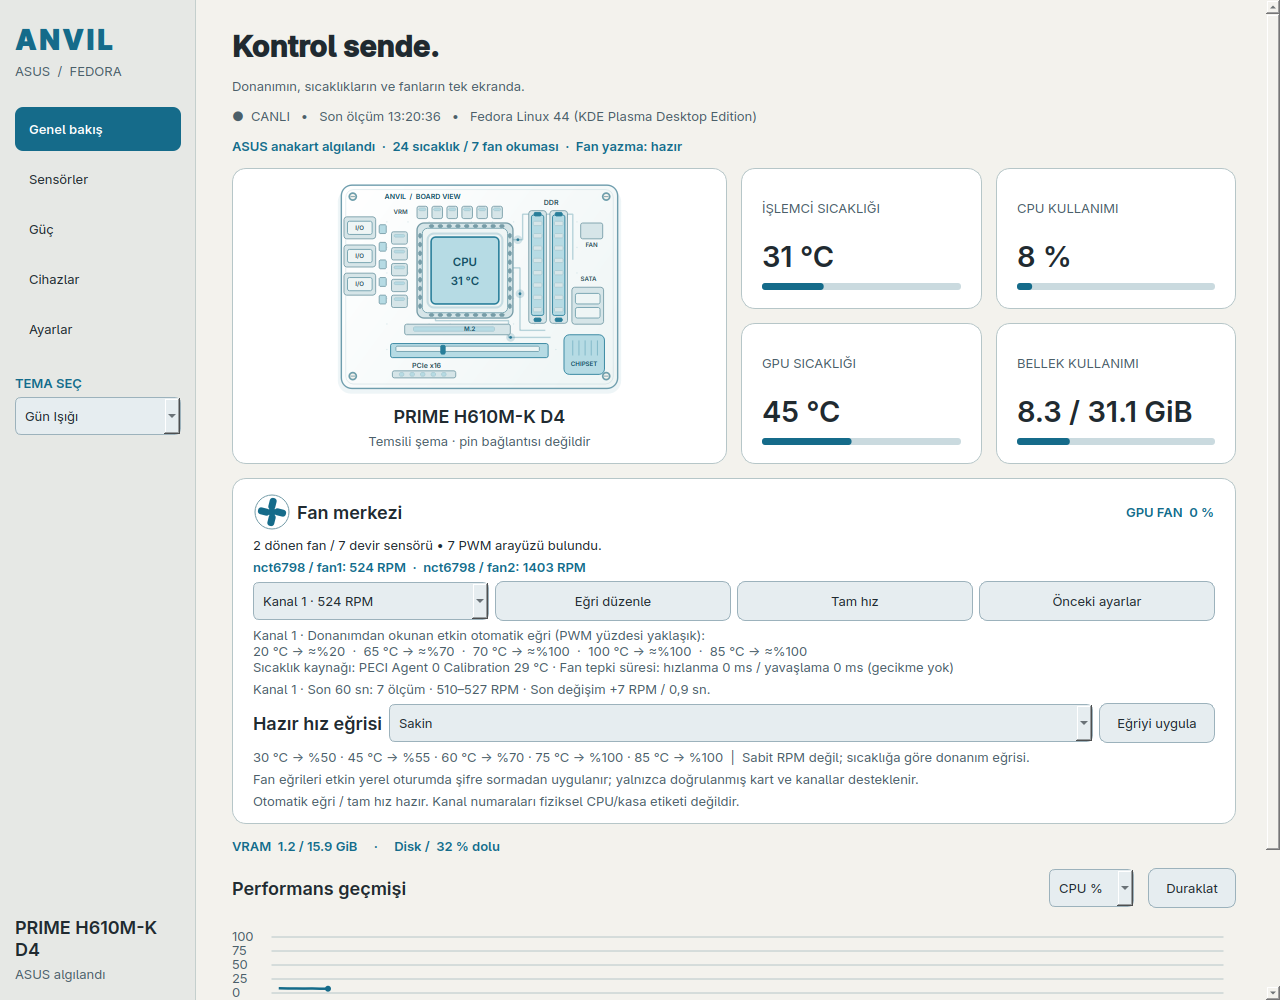
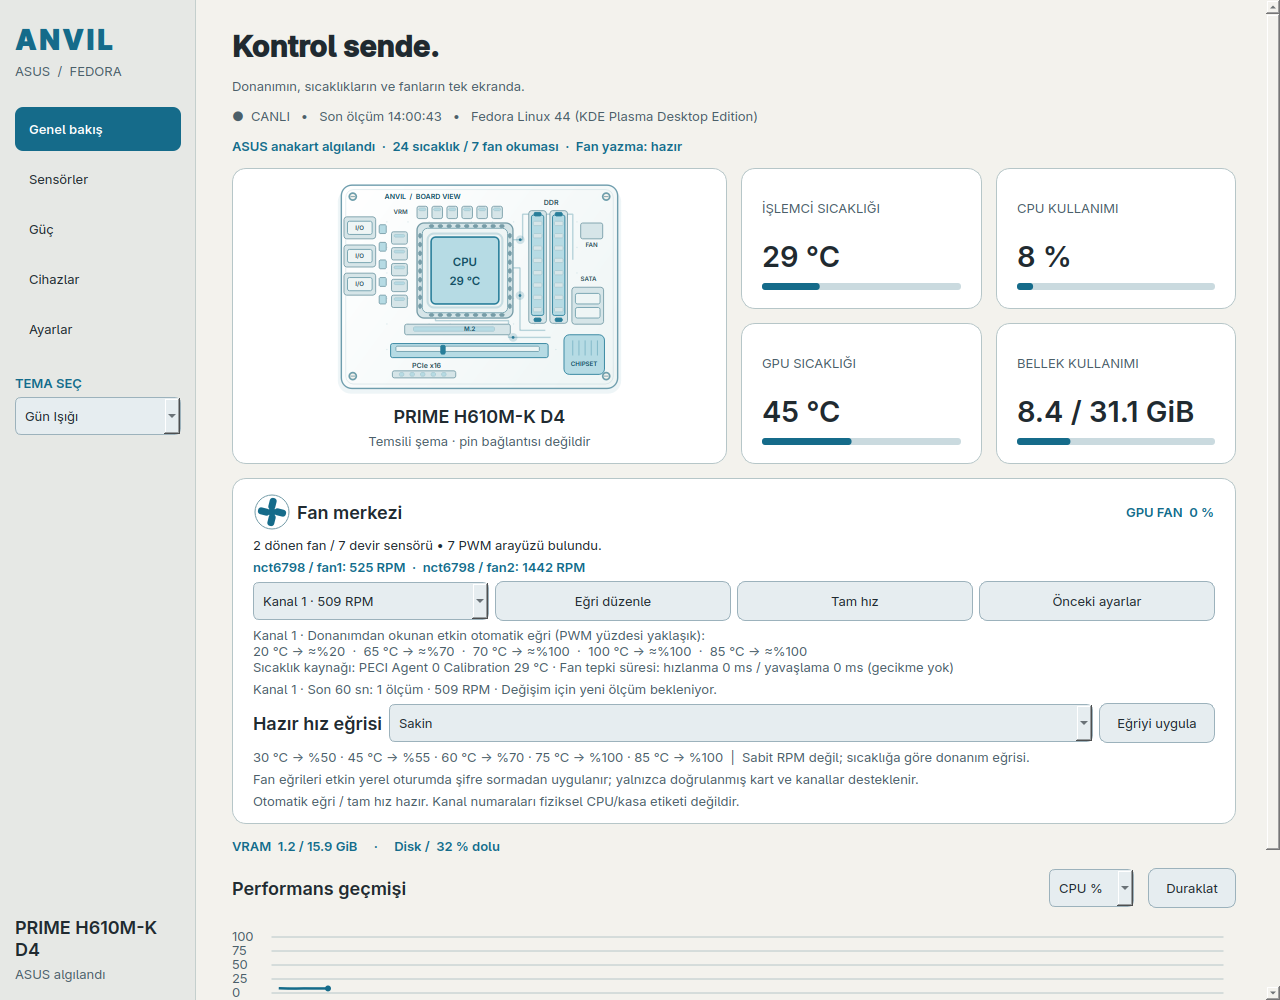
Mark paused and failed fan readings as stale

diff --git a/anvil/app.py b/anvil/app.py
@@ -603,6 +603,7 @@ class Window(QMainWindow):
         self.latest = None
         self.history = deque(maxlen=3600)
         self.fan_rpm_history = FanRpmHistory()
+        self.fan_readback_state = None
         self.profile_job = None
         self.profile_pending = False
         self.hardware_job = None
@@ -753,7 +754,7 @@ class Window(QMainWindow):
         self.fan_channel = QComboBox()
         self.fan_channel.addItem('Kanal aranıyor…', None)
         self.fan_channel.setEnabled(False)
-        self.fan_channel.setAccessibleName('Fan kanalı ve canlı devir')
+        self.fan_channel.setAccessibleName('Fan kanalı ve son okunan devir')
         self.fan_channel.setToolTip('Kanal numarası fiziksel CPU/kasa etiketi değildir; RPM denetleyici sensöründen okunur.')
         self.current_fan_channels = []
         self.fan_channel.currentIndexChanged.connect(self.update_current_fan_curve)
@@ -1042,10 +1043,18 @@ class Window(QMainWindow):
         self.pause_button.setText('Devam et' if self.paused else 'Duraklat')
         if self.paused:
             self.status.setText('DURAKLATILDI  ·  Son ölçümler gösteriliyor; sıcaklık uyarıları durdu.')
+            self.fan_status.setText('Fan ölçümleri duraklatıldı; varsa gösterilen değerler son okumadır.')
+            self.fan_rpm_history.clear()
+            self.fan_readback_state = 'İzleme duraklatıldı · Kanal RPM geçmişi güncel değil.'
+            self.update_current_fan_curve()
             self.rotor.set_speed(None)
             self.log_event('İzleme duraklatıldı.')
         else:
             self.monitor.previous = None
+            self.status.setText('YENİ ÖLÇÜM BEKLENİYOR  ·  Son değerler güncel olmayabilir.')
+            self.fan_status.setText('Fan ölçümleri yenileniyor; varsa gösterilen değerler son okumadır.')
+            self.fan_readback_state = 'Yeni ölçüm bekleniyor · Kanal RPM geçmişi güncel değil.'
+            self.update_current_fan_curve()
             self.log_event('İzleme devam ediyor.')
             self.refresh()
 
@@ -1164,8 +1173,17 @@ class Window(QMainWindow):
     def update_current_fan_curve(self, *args):
         channel = self.fan_channel.currentData()
         item = next((item for item in self.current_fan_channels if item['channel'] == channel), None)
-        self.fan_curve_info.setText(hardware_fan_curve_text(item))
-        self.fan_trend_info.setText(self.fan_rpm_history.summary(channel))
+        for index, current in enumerate(self.current_fan_channels):
+            reading = fan_channel_label(current)
+            if self.fan_readback_state:
+                reading += ' · son okuma'
+            if self.fan_channel.itemText(index) != reading:
+                self.fan_channel.setItemText(index, reading)
+        curve = hardware_fan_curve_text(item)
+        if item is not None and self.fan_readback_state:
+            curve = 'Son başarılı donanım okuması; güncel olmayabilir.\n' + curve
+        self.fan_curve_info.setText(curve)
+        self.fan_trend_info.setText(self.fan_readback_state or self.fan_rpm_history.summary(channel))
 
     def apply_fan_preset(self):
         key = self.preset_combo.currentData()
@@ -1247,7 +1265,13 @@ class Window(QMainWindow):
         self.run_hardware(shutil.which('openrgb') or 'openrgb', ['--device', str(item['id']), '--mode', mode, '--color', self.rgb_color[1:]], done, 30000)
 
     def on_error(self, error):
+        if self.paused:
+            return
         self.status.setText('Ölçüm alınamadı: ' + error + ' • Ekrandaki değerler eski olabilir.')
+        self.fan_status.setText('Fan ölçümleri yenilenemedi; varsa gösterilen değerler son okumadır.')
+        self.fan_rpm_history.clear()
+        self.fan_readback_state = 'Ölçüm yenilenemedi · Kanal RPM geçmişi güncel değil.'
+        self.update_current_fan_curve()
 
     def update_data(self, d):
         if self.paused:
@@ -1296,6 +1320,7 @@ class Window(QMainWindow):
         selected = self.fan_channel.currentData()
         self.current_fan_channels = controllable
         self.fan_rpm_history.record(d['time'], controllable)
+        self.fan_readback_state = None
         if available_channels != shown_channels:
             with QSignalBlocker(self.fan_channel):
                 self.fan_channel.clear()

diff --git a/tests/test_fan_ui.py b/tests/test_fan_ui.py
@@ -123,6 +123,50 @@ class FanUiTests(unittest.TestCase):
             finally:
                 window.quit_app()
 
+    def test_paused_and_failed_samples_never_look_live_in_fan_panel(self):
+        with tempfile.TemporaryDirectory() as directory:
+            settings = QSettings(str(Path(directory) / 'settings.ini'), QSettings.Format.IniFormat)
+            with patch('anvil.app.QSettings', return_value=settings), patch.object(Window, 'refresh'):
+                window = Window()
+            try:
+                sample = dict(time=100.0, cpu_usage=None, cpu_temp=None, cpu_mhz=None,
+                              memory_used=None, memory_total=None, disk_used=0, disk_total=0,
+                              uptime='', sensors=[], gpu={}, profile=None, profiles=[])
+                for timestamp, first, second in ((100.0, 500, 1400), (102.0, 900, 1300)):
+                    with patch('anvil.app.channels', return_value=[channel(1, first), channel(2, second)]):
+                        window.update_data(dict(sample, time=timestamp))
+                self.assertIn('Son 60 sn', window.fan_trend_info.text())
+                with patch.object(window, 'refresh'):
+                    window.toggle_pause()
+                    self.assertIn('güncel değil', window.fan_trend_info.text())
+                    self.assertIn('son okumadır', window.fan_status.text())
+                    self.assertNotIn('Son 60 sn', window.fan_trend_info.text())
+                    self.assertIn('son okuma', window.fan_channel.itemText(0))
+                    self.assertIn('güncel olmayabilir', window.fan_curve_info.text())
+                    window.fan_channel.setCurrentIndex(1)
+                    self.assertIn('duraklatıldı', window.fan_trend_info.text())
+                    window.on_error('örnek hata')
+                    self.assertIn('DURAKLATILDI', window.status.text())
+                    window.toggle_pause()
+                    self.assertIn('YENİ ÖLÇÜM BEKLENİYOR', window.status.text())
+                    self.assertIn('Yeni ölçüm bekleniyor', window.fan_trend_info.text())
+                with patch('anvil.app.channels', return_value=[channel(1, 950), channel(2, 1350)]):
+                    window.update_data(dict(sample, time=104.0))
+                self.assertIn('1 ölçüm · 1350 RPM', window.fan_trend_info.text())
+                self.assertNotIn('son okuma', window.fan_channel.itemText(1))
+                self.assertNotIn('güncel olmayabilir', window.fan_curve_info.text())
+                window.on_error('örnek hata')
+                self.assertIn('Ölçüm yenilenemedi', window.fan_trend_info.text())
+                self.assertIn('son okumadır', window.fan_status.text())
+                self.assertIn('son okuma', window.fan_channel.itemText(1))
+                window.fan_channel.setCurrentIndex(0)
+                self.assertIn('Ölçüm yenilenemedi', window.fan_trend_info.text())
+                with patch('anvil.app.channels', return_value=[channel(1, 1000), channel(2, 1200)]):
+                    window.update_data(dict(sample, time=106.0))
+                self.assertIn('1 ölçüm · 1000 RPM', window.fan_trend_info.text())
+            finally:
+                window.quit_app()
+
     def test_async_feedback_keeps_original_channel_after_selection_changes(self):
         with tempfile.TemporaryDirectory() as directory:
             settings = QSettings(str(Path(directory) / 'settings.ini'), QSettings.Format.IniFormat)

diff --git a/tests/test_fan_history.py b/tests/test_fan_history.py
@@ -72,6 +72,16 @@ class FanRpmHistoryTests(unittest.TestCase):
         history.record(19, [fan(1, 700)])
         self.assertIn('1 ölçüm · 700 RPM', history.summary(1))
 
+    def test_sampling_interruption_discards_previous_comparison(self):
+        history = FanRpmHistory()
+        history.record(10, [fan(1, 500)])
+        history.record(12, [fan(1, 900)])
+        history.clear()
+        self.assertIn('henüz yok', history.summary(1))
+        history.record(14, [fan(1, 950)])
+        self.assertIn('1 ölçüm · 950 RPM', history.summary(1))
+        self.assertNotIn('Son değişim', history.summary(1))
+
     def test_invalid_timestamp_is_ignored(self):
         history = FanRpmHistory()
         history.record(10, [fan(1, 500)])

diff --git a/anvil/fan_history.py b/anvil/fan_history.py
@@ -41,6 +41,11 @@ class FanRpmHistory:
         self._samples = {}
         self._last_timestamp = None
 
+    def clear(self) -> None:
+        """Discard a trend after sampling is interrupted."""
+        self._samples.clear()
+        self._last_timestamp = None
+
     def record(self, timestamp: float, channels: list[dict]) -> None:
         """Store readbacks once per timestamp; unavailable channels lose history."""
         now = _nonnegative_number(timestamp)

diff --git a/tests/smoke_ui.py b/tests/smoke_ui.py
@@ -50,6 +50,9 @@ def check():
         w.toggle_pause()
         w.update_data(w.latest)
         assert len(w.history) == before
+        assert 'güncel değil' in w.fan_trend_info.text()
+        if w.fan_channel.currentData() is not None:
+            assert 'son okuma' in w.fan_channel.currentText()
         assert not w.rotor.timer.isActive()
         w.toggle_pause()
         assert len(w.nav) == 5, 'Navigation should stay focused on five sections'

diff --git a/anvil/__init__.py b/anvil/__init__.py
@@ -1,1 +1,1 @@
-__version__ = '0.13.0'
+__version__ = '0.13.1'

diff --git a/CHANGELOG.md b/CHANGELOG.md
@@ -1,5 +1,11 @@
 # Değişiklikler
 
+## 0.13.1 — 2026-09-24
+
+- İzleme duraklatıldığında veya ölçüm başarısız olduğunda fan kanalındaki RPM ve donanım eğrisi son okuma olarak işaretleniyor; eski geçmiş artık canlı “son 60 sn” gibi sunulmuyor.
+- İzleme yeniden başladığında veya hata sonrası ilk başarılı ölçümde RPM karşılaştırması sıfırdan başlıyor. Kanal değişimi sırasında uyarı korunuyor; yeni ölçümle normal gösterim geri geliyor.
+- Fan donanımına yazma, güç profili ve yetki modeli değişmedi.
+
 ## 0.13.0 — 2026-09-24
 
 - Ana sayfada seçili doğrulanmış fan kanalının son 60 saniyedeki geçerli RPM ölçüm sayısı, aralığı ve iki son ölçüm arasındaki değişim gösteriliyor. Kanal geçmişleri karışmıyor; görünmeyen kanalın geçmişi temizleniyor.
